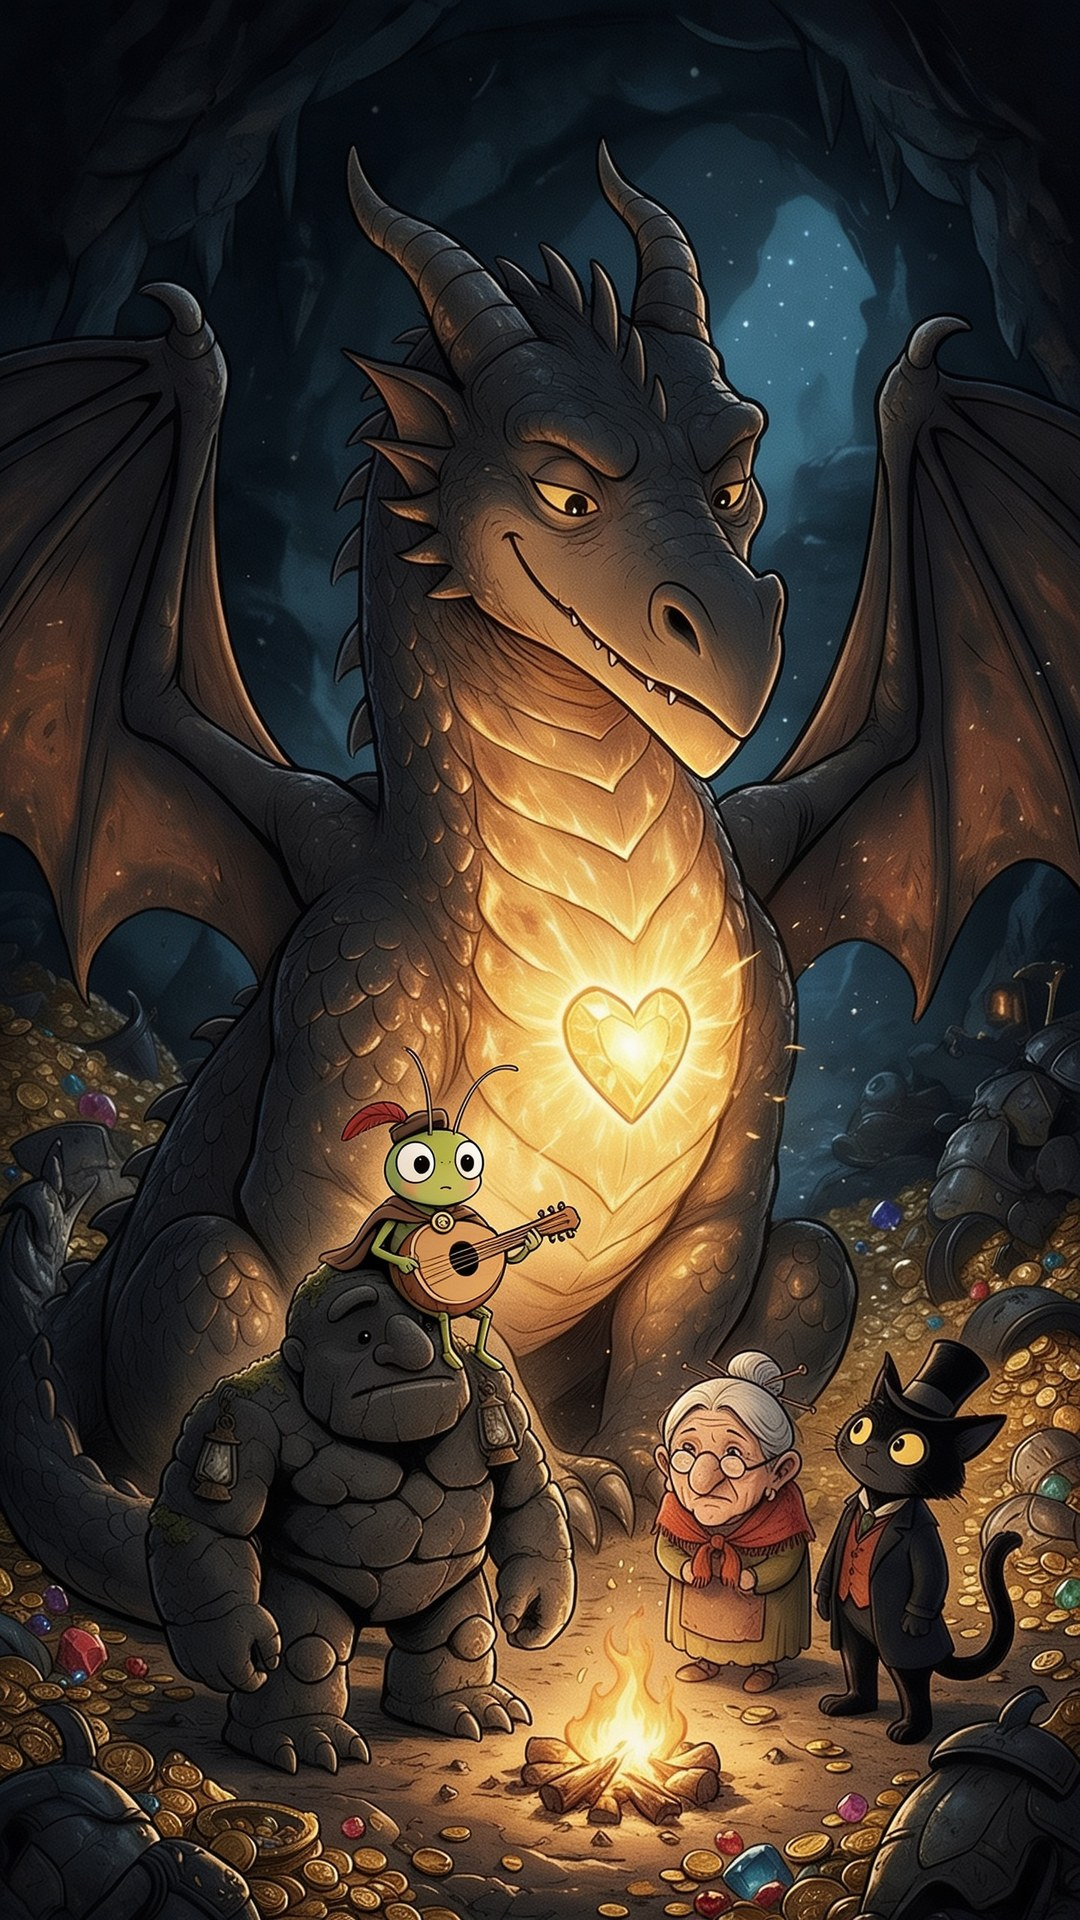
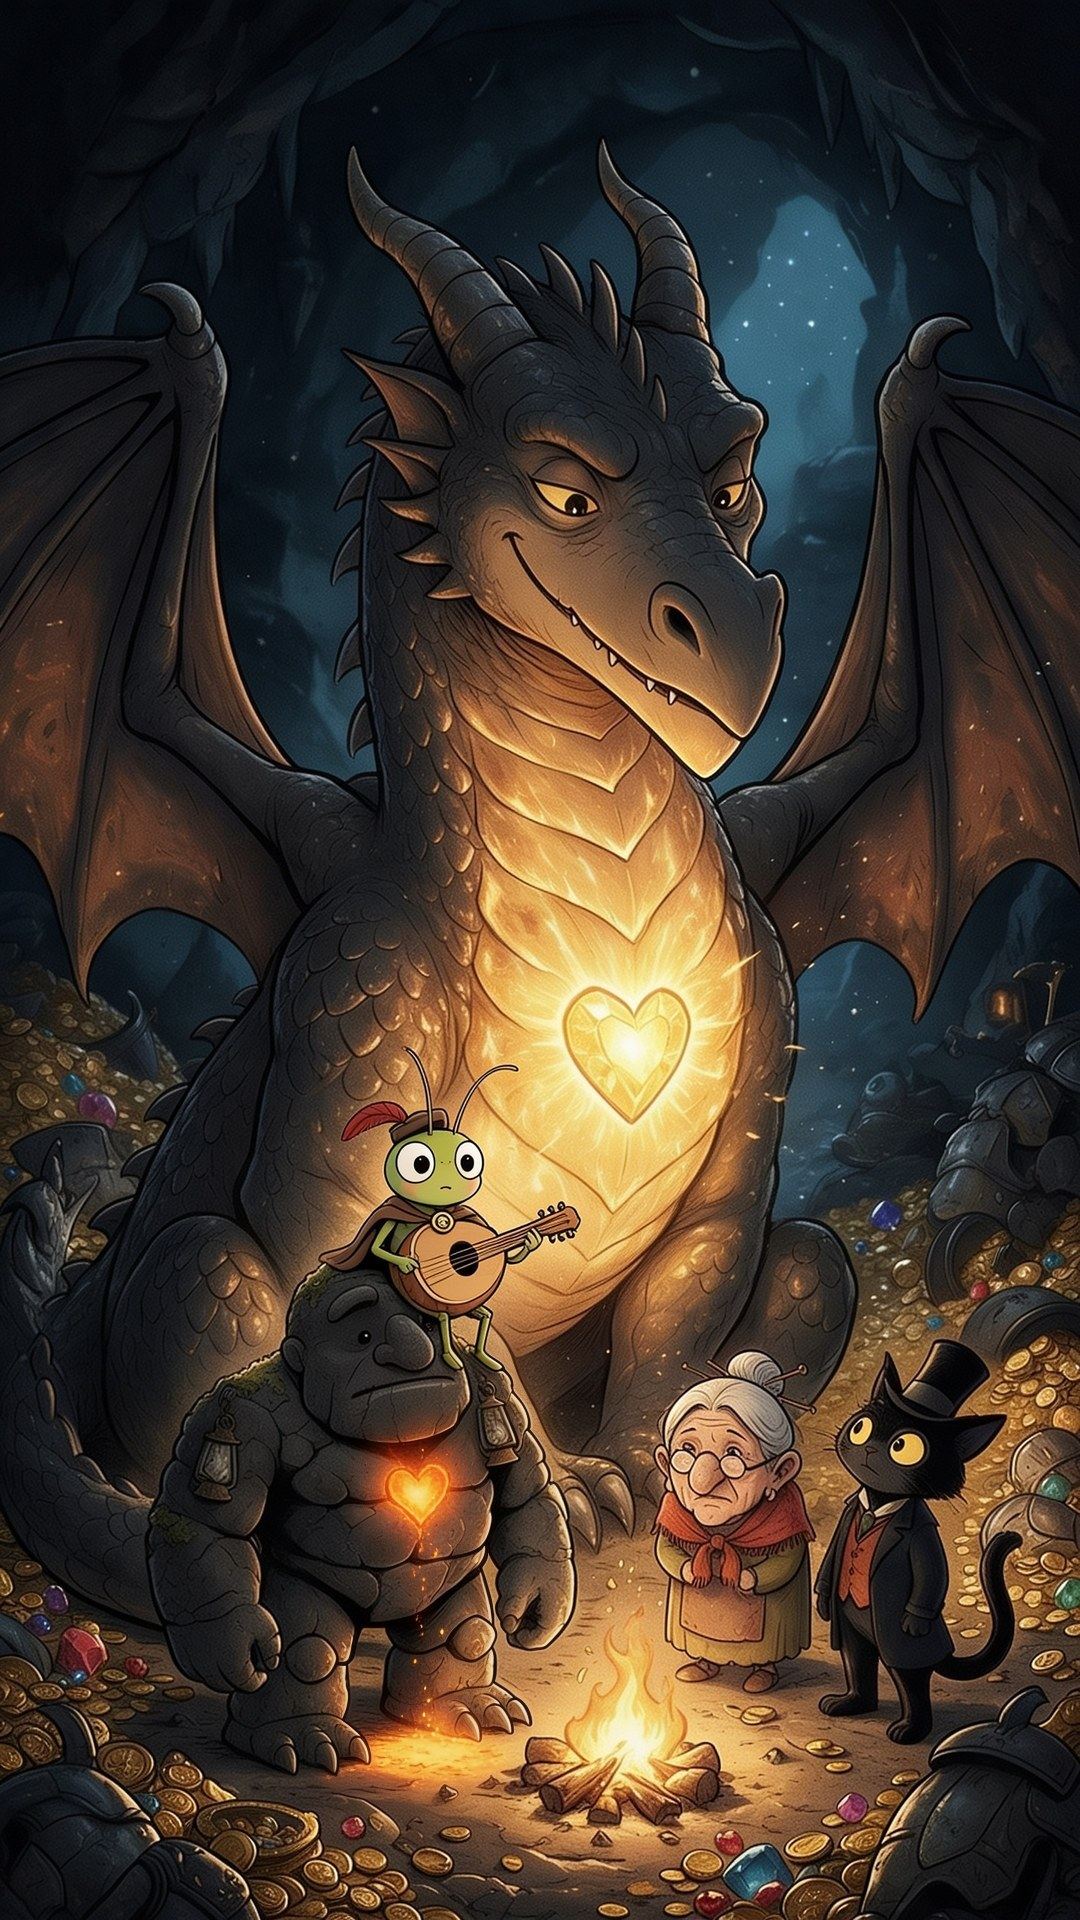
Quest 24: Grumbold mit leuchtendem Herz im Drachenhort
Claude-Session: https://claude.ai/code/session_013ksHH1RN3knNHjnsFznGtM

Changed region(s): [[0.3056, 0.7188, 0.4889, 0.9375], [0.4583, 0.6875, 0.4889, 0.75], [0.4889, 0.75, 0.5194, 0.7812]]

diff --git a/index.html b/index.html
@@ -9,7 +9,7 @@
 <meta name="robots" content="noindex">
 <link rel="preconnect" href="https://fonts.googleapis.com"><link rel="preconnect" href="https://fonts.gstatic.com" crossorigin>
 <link href="https://fonts.googleapis.com/css2?family=Grenze+Gotisch:wght@500;700;800&family=Alegreya:ital,wght@0,400;0,500;0,700;1,400&family=Alegreya+SC:wght@500;700&family=Caveat:wght@500;700&display=swap" rel="stylesheet">
-<link rel="stylesheet" href="style.css?v=1794176079">
+<link rel="stylesheet" href="style.css?v=1794176257">
 </head>
 <body>
 
@@ -59,26 +59,26 @@
 <div id="sheet" class="ovl sheet"></div>
 <div id="toast" class="toast"></div>
 
-<script src="gate.js?v=1794176079"></script>
-<script src="engine.js?v=1794176079"></script>
-<script src="scene.js?v=1794176079"></script>
-<script src="dice.js?v=1794176079"></script>
-<script src="items.js?v=1794176079"></script>
-<script src="battle.js?v=1794176079"></script>
-<script src="ui.js?v=1794176079"></script>
-<script src="slyr.js?v=1794176079"></script>
-<script src="games.js?v=1794176079"></script>
-<script src="malen.js?v=1794176079"></script>
-<script src="bossgames.js?v=1794176079"></script>
-<script src="films.js?v=1794176079"></script>
-<script src="days1.js?v=1794176079"></script>
-<script src="days2.js?v=1794176079"></script>
-<script src="days3.js?v=1794176079"></script>
-<script src="days4.js?v=1794176079"></script>
-<script src="hero.js?v=1794176079"></script>
-<script src="qrcode.js?v=1794176079"></script>
-<script src="komplize.js?v=1794176079"></script>
-<script src="urkunde.js?v=1794176079"></script>
-<script src="main.js?v=1794176079"></script>
+<script src="gate.js?v=1794176257"></script>
+<script src="engine.js?v=1794176257"></script>
+<script src="scene.js?v=1794176257"></script>
+<script src="dice.js?v=1794176257"></script>
+<script src="items.js?v=1794176257"></script>
+<script src="battle.js?v=1794176257"></script>
+<script src="ui.js?v=1794176257"></script>
+<script src="slyr.js?v=1794176257"></script>
+<script src="games.js?v=1794176257"></script>
+<script src="malen.js?v=1794176257"></script>
+<script src="bossgames.js?v=1794176257"></script>
+<script src="films.js?v=1794176257"></script>
+<script src="days1.js?v=1794176257"></script>
+<script src="days2.js?v=1794176257"></script>
+<script src="days3.js?v=1794176257"></script>
+<script src="days4.js?v=1794176257"></script>
+<script src="hero.js?v=1794176257"></script>
+<script src="qrcode.js?v=1794176257"></script>
+<script src="komplize.js?v=1794176257"></script>
+<script src="urkunde.js?v=1794176257"></script>
+<script src="main.js?v=1794176257"></script>
 </body>
 </html>
